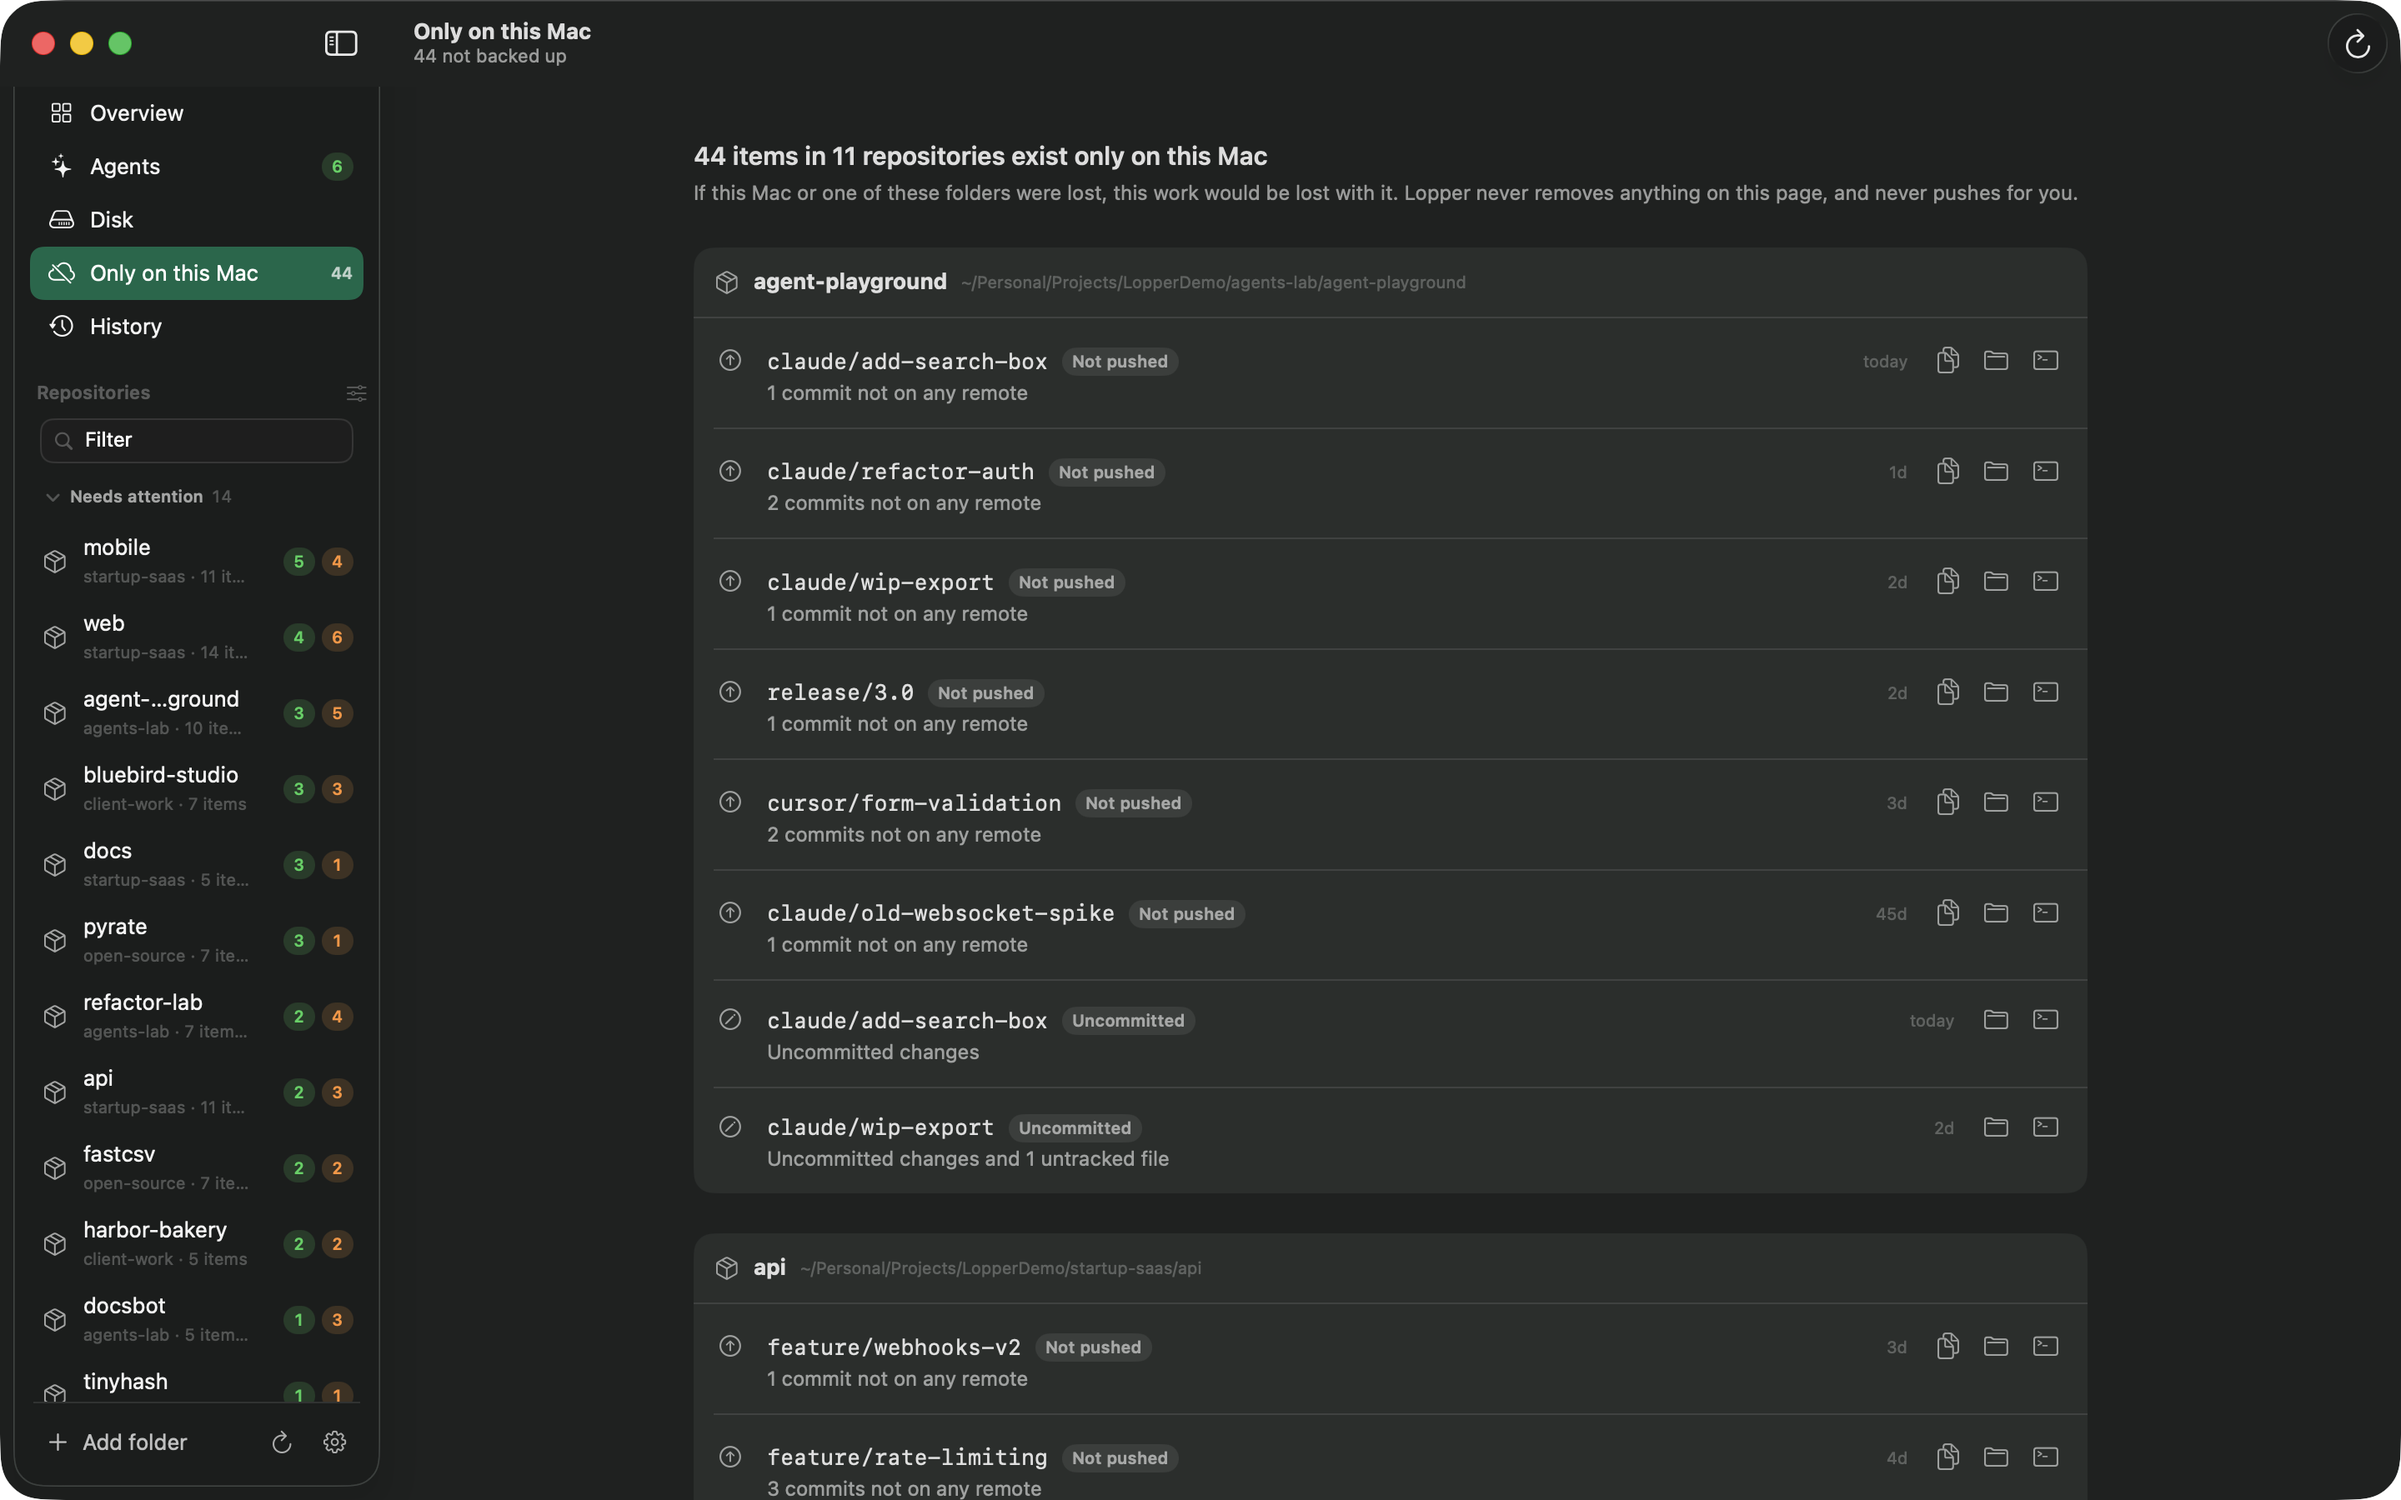
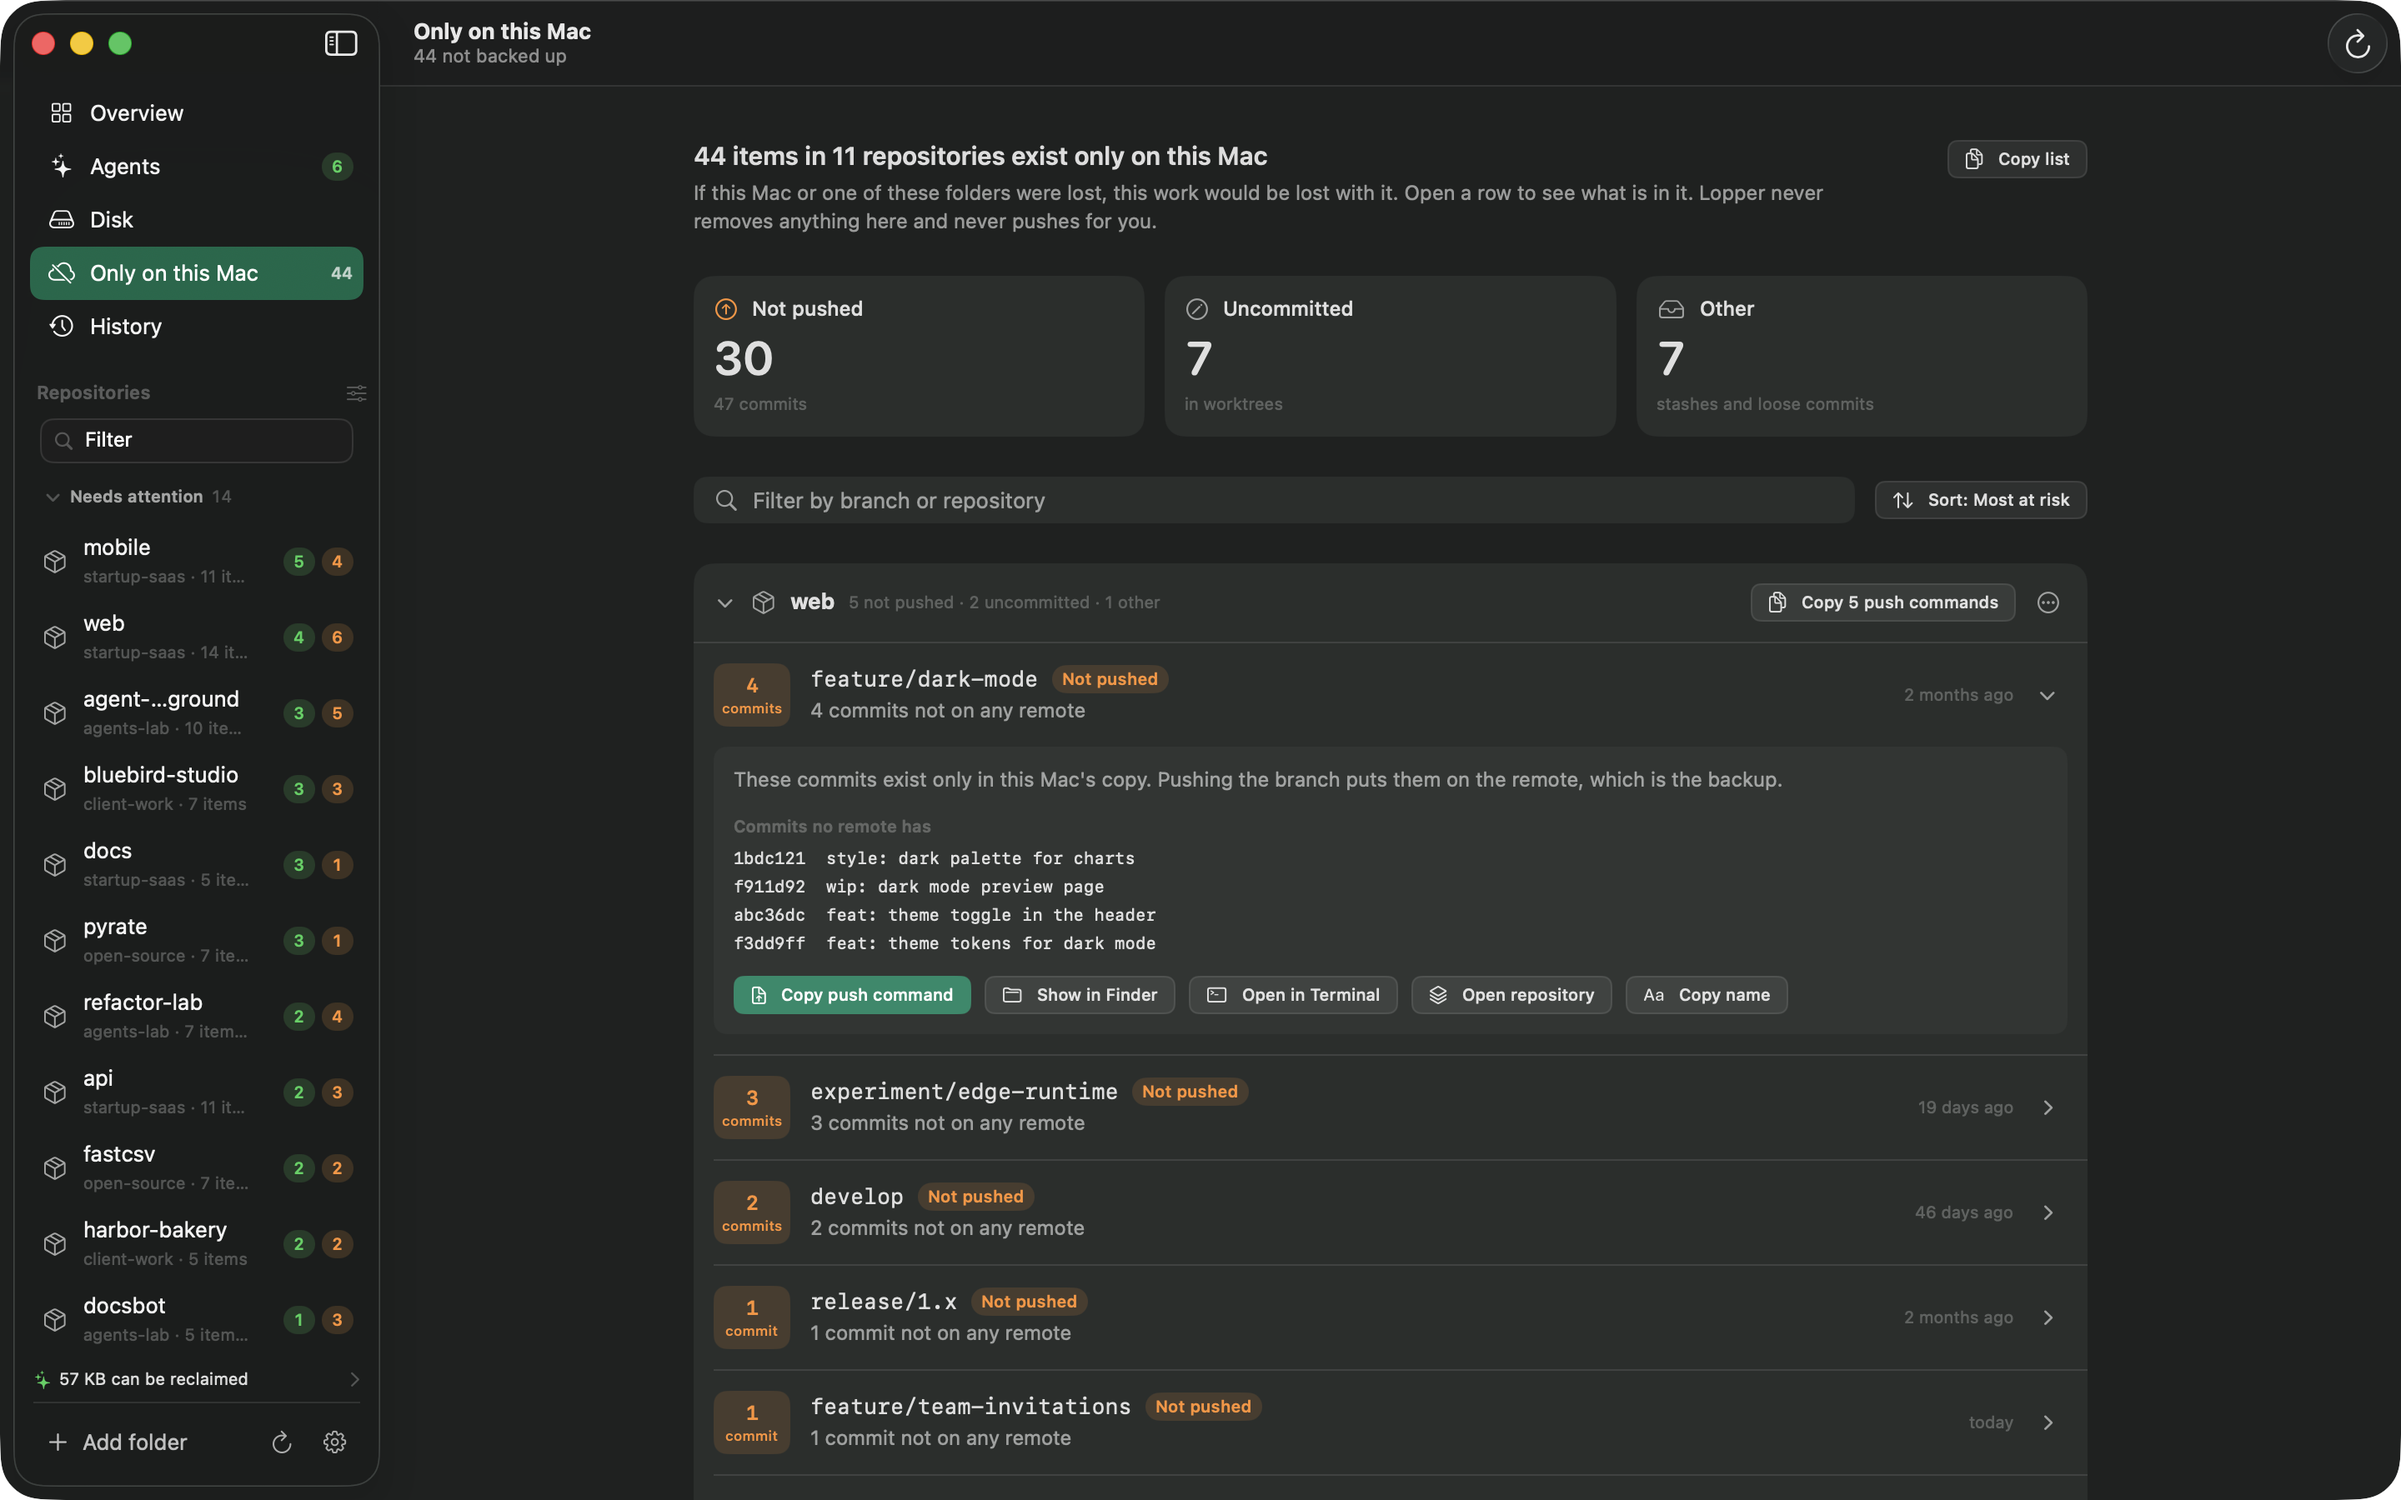
feat: only on this mac stills, readme and site chapter show the new page with a row open

diff --git a/App/LopperApp/Features/LocalOnly/LocalOnlyView.swift b/App/LopperApp/Features/LocalOnly/LocalOnlyView.swift
@@ -55,6 +55,7 @@ struct LocalOnlyList: View {
     var body: some View {
         let sections = LocalOnlyPresenter.sections(of: model.localOnly, query: query)
         let counts = LocalOnlyPresenter.counts(of: model.localOnly, search: query.trimmedSearch)
+        let opened = initiallyOpen.union(debugPreopened(in: sections))
         VStack(alignment: .leading, spacing: Theme.Spacing.xl) {
             header(sections: sections)
             FilterTiles(counts: counts, selection: $query.filter)
@@ -66,7 +67,7 @@ struct LocalOnlyList: View {
                     ForEach(Array(sections.enumerated()), id: \.element.id) { index, section in
                         SectionCard(
                             section: section, startsExpanded: index == 0 || query.isNarrowed,
-                            limitsRows: !query.isSearching, initiallyOpen: initiallyOpen)
+                            limitsRows: !query.isSearching, initiallyOpen: opened)
                     }
                 }
             }
@@ -74,6 +75,14 @@ struct LocalOnlyList: View {
         .padding(32)
         .frame(maxWidth: 900)
         .frame(maxWidth: .infinity)
+    }
+
+    /// Nothing in a release build: only screenshot capture asks for a row to start open.
+    private func debugPreopened(in sections: [LocalOnlySection]) -> Set<String> {
+        #if DEBUG
+        if model.debugOpensFirstLocalOnlyRow, let first = sections.first?.items.first { return [first.id] }
+        #endif
+        return []
     }
 
     private func header(sections: [LocalOnlySection]) -> some View {

diff --git a/App/LopperApp/Model/AppModel.swift b/App/LopperApp/Model/AppModel.swift
@@ -525,6 +525,8 @@ final class AppModel {
     @ObservationIgnored private var localOnlyDetailsInFlight: Set<String> = []
 
     #if DEBUG
+    /// Screenshot capture only: opens the top row of the Only on this Mac page, so the still shows what a row holds.
+    var debugOpensFirstLocalOnlyRow = false
     @ObservationIgnored private var hiddenLocalOnly: [LocalOnlyItem]?
     @ObservationIgnored private var keepsLocalOnlyHidden = false
 

diff --git a/App/LopperApp/Preview/ScreenshotMode.swift b/App/LopperApp/Preview/ScreenshotMode.swift
@@ -37,7 +37,10 @@ enum ScreenshotMode {
             model.route = .disk
             model.diskGrouping = .map
         },
-        Shot(name: "only-here") { $0.route = .onlyHere },
+        Shot(name: "only-here") { model in
+            model.route = .onlyHere
+            model.debugOpensFirstLocalOnlyRow = true
+        },
         Shot(name: "history") { $0.route = .history },
     ]
 

diff --git a/README.md b/README.md
@@ -134,13 +134,13 @@ dark appearance. No account, no analytics, no network calls of its own.
 <tr>
 <td width="50%"><picture>
   <source media="(prefers-color-scheme: dark)" srcset="docs/images/only-here-dark.png">
-  <img alt="Only on this Mac: unpushed commits, uncommitted changes and stashes, by repository" src="docs/images/only-here-light.png">
+  <img alt="Only on this Mac: unpushed commits, uncommitted changes and stashes by repository, with one row open to show its commits" src="docs/images/only-here-light.png">
 </picture></td>
 <td width="50%" valign="middle">
 
 **Nothing here is ever removed.**<br>
-This page lists the work that exists only on your Mac, with a copyable `git push` for each branch. Lopper reads it and
-never pushes for you.
+This page lists the work that exists only on your Mac, most at risk first. Filter it, search it, and open a row to see
+the commits or files inside, with a copyable `git push` for each branch. Lopper reads it and never pushes for you.
 
 </td>
 </tr>
